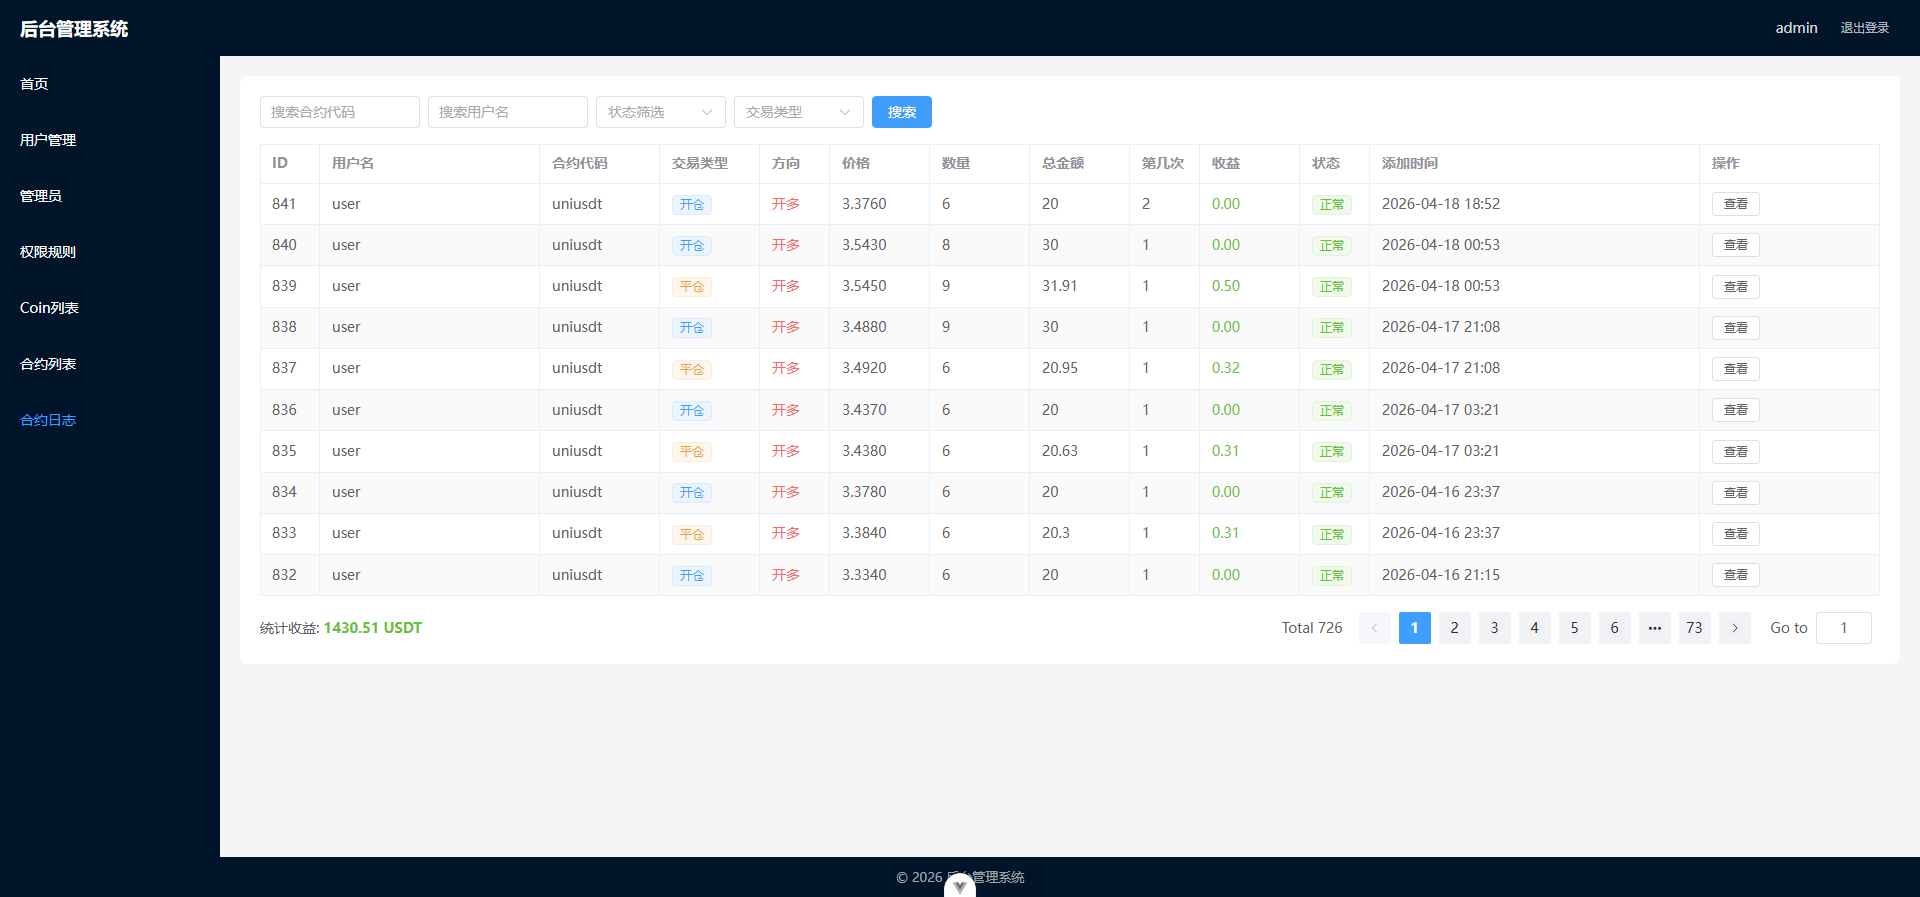
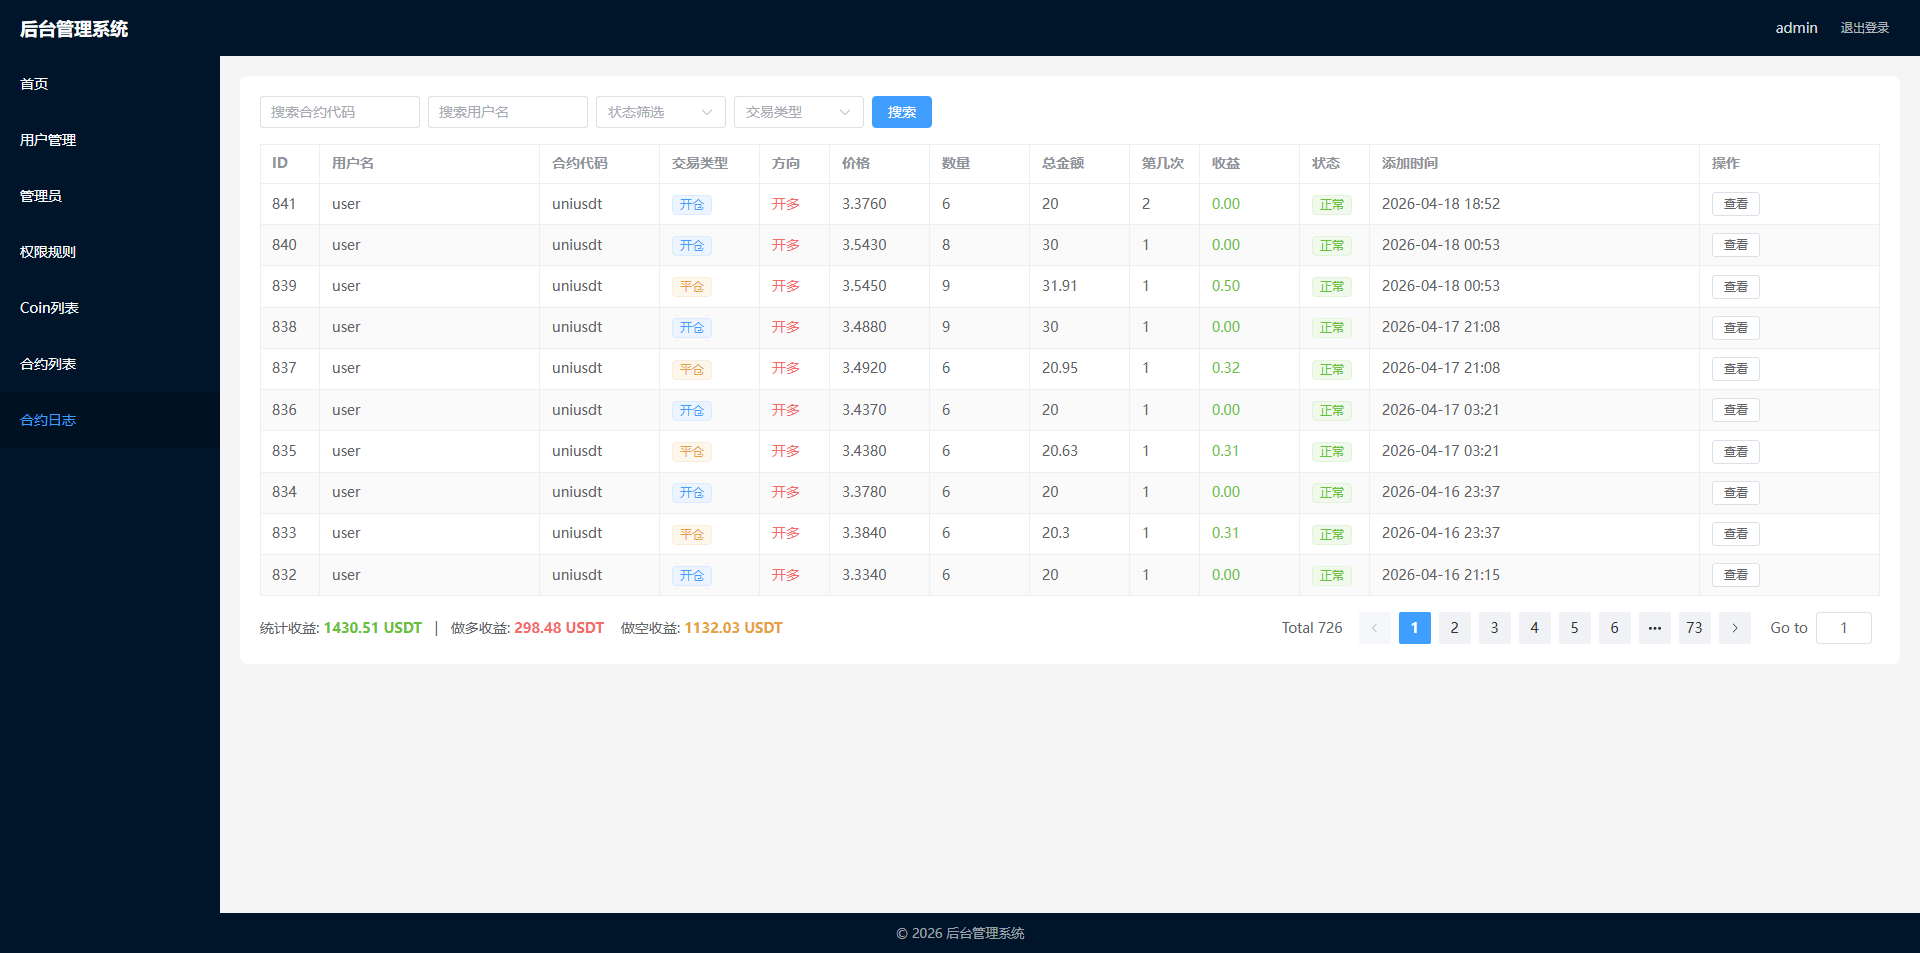
update rm

diff --git a/README.md b/README.md
@@ -28,8 +28,8 @@ codex 使用gin和vue生成管理 程序
 手机版合约：
 ![手机版合约](bak/img/手机版合约.png)
 
-手机版我的：
-![手机版我的](bak/img/手机版我的.png)
-
 手机版日志：
 ![手机版日志](bak/img/手机版日志.png)
+
+手机版我的：
+![手机版我的](bak/img/手机版我的.png)